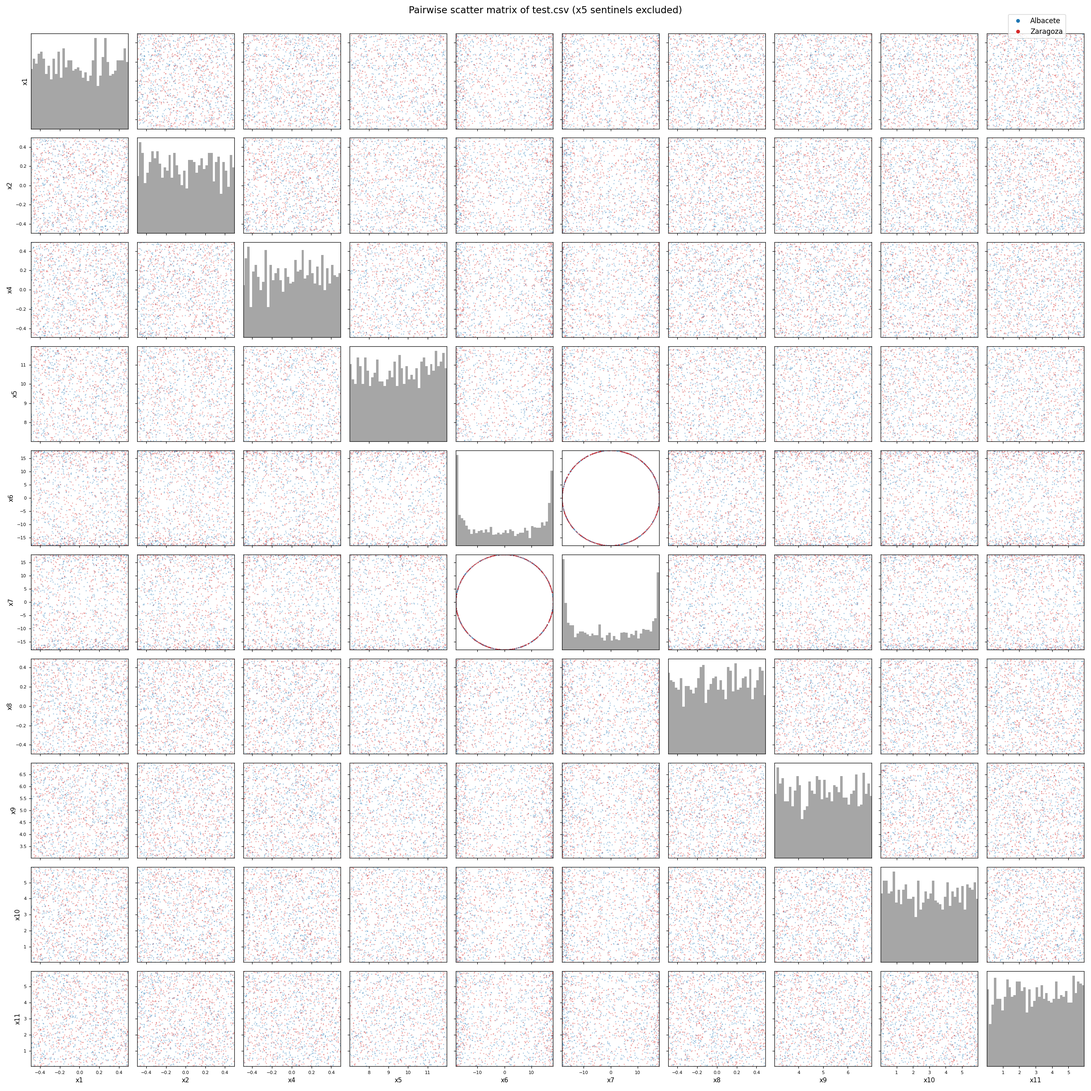
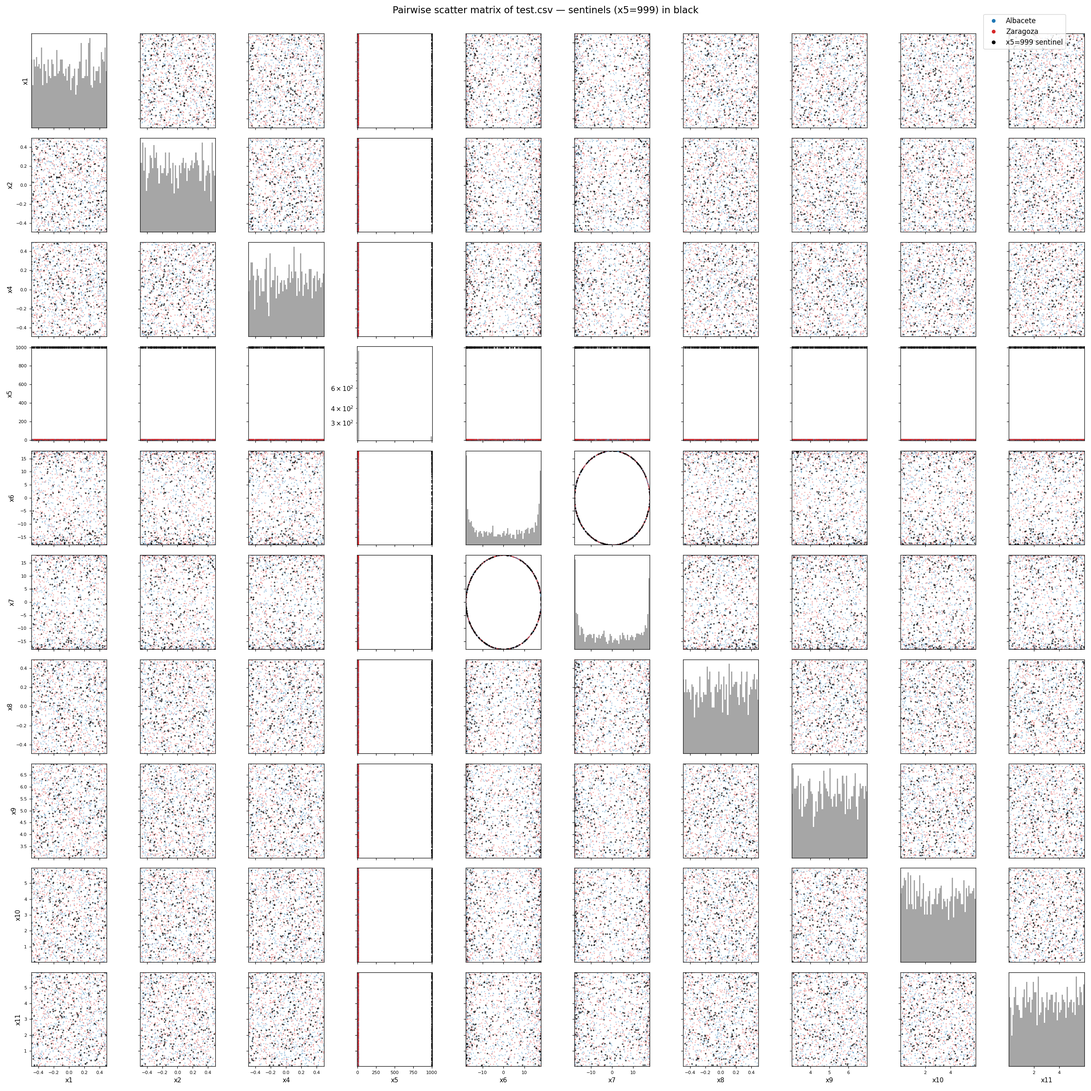
fix: show x5=999 sentinels in pairwise scatter matrix
Previous version silently filtered out the 228 sentinel rows (x5=999) whenever
x5 was on an axis, which made the x5 row/column look clean and hid real
structure. Now sentinels are plotted in black on top of the city-coloured
points, the x5 axis spans the full [7, 999] range, and the x5 histogram
uses a log y-scale so both the main cluster (~7-12) and the sentinel spike
at 999 are visible.

https://claude.ai/code/session_015XGC4Bc9amzqZxfFDxU38n

Changed region(s): [[0.0, 0.0, 1.0, 0.9939]]

diff --git a/scripts/plot_test_pairwise.py b/scripts/plot_test_pairwise.py
@@ -24,21 +24,22 @@ def main() -> None:
     features = ["x1", "x2", "x4", "x5", "x6", "x7", "x8", "x9", "x10", "x11"]
     n = len(features)
     print(f"test.csv: {df.shape}")
-    print(f"  plotting {n}x{n} pairwise matrix")
+    print(f"  plotting {n}x{n} pairwise matrix (sentinels visible)")
 
-    # Mark sentinels for x5 so the column doesn't get blown up by 999 values
     sent = (df["x5"] == SENTINEL).values
     city = df["City"].values
 
     colors = {"Albacete": "#1f77b4", "Zaragoza": "#d62728"}
 
-    # Compute per-column display range (for x5 drop sentinels)
+    # Axis ranges: keep full data range for x5 so the 999 sentinels are visible;
+    # other features use the tight percentile range.
     ranges = {}
     for f in features:
-        vals = df[f].values.copy()
+        vals = df[f].values
         if f == "x5":
-            vals = vals[~sent]
-        ranges[f] = (np.percentile(vals, 0.5), np.percentile(vals, 99.5))
+            ranges[f] = (vals.min() - 10, vals.max() + 10)
+        else:
+            ranges[f] = (np.percentile(vals, 0.5), np.percentile(vals, 99.5))
 
     fig, axes = plt.subplots(n, n, figsize=(24, 24))
 
@@ -47,28 +48,27 @@ def main() -> None:
             ax = axes[i, j]
 
             if i == j:
-                # Diagonal: histogram per city
+                # Diagonal: histogram including sentinels
                 vals = df[xf].values
-                if xf == "x5":
-                    vals = vals[~sent]
-                ax.hist(vals, bins=40, color="gray", alpha=0.7)
+                ax.hist(vals, bins=60, color="gray", alpha=0.7)
                 ax.set_xlim(ranges[xf])
                 ax.set_yticks([])
+                if xf == "x5":
+                    ax.set_yscale("log")
             else:
-                # Off-diagonal: scatter
+                # Off-diagonal: scatter, sentinel rows in red
                 x = df[xf].values
                 y = df[yf].values
-                # Exclude sentinel rows when x5 is on either axis
-                mask = np.ones(len(df), dtype=bool)
-                if xf == "x5" or yf == "x5":
-                    mask &= ~sent
+                # Non-sentinel rows by city
                 for c, col in colors.items():
-                    m = mask & (city == c)
+                    m = (~sent) & (city == c)
                     ax.scatter(x[m], y[m], s=3, alpha=0.4, color=col, linewidths=0)
+                # Sentinel rows over the top
+                ax.scatter(x[sent], y[sent], s=6, alpha=0.7, color="black",
+                           linewidths=0, label=None)
                 ax.set_xlim(ranges[xf])
                 ax.set_ylim(ranges[yf])
 
-            # Axis labels only on the outer edges
             if i == n - 1:
                 ax.set_xlabel(xf, fontsize=10)
             else:
@@ -79,20 +79,22 @@ def main() -> None:
                 ax.set_yticklabels([])
             ax.tick_params(labelsize=7)
 
-    # Legend in the top-right corner
     handles = [plt.Line2D([], [], marker="o", color="w",
                           markerfacecolor=col, markersize=7, label=c)
                for c, col in colors.items()]
+    handles.append(plt.Line2D([], [], marker="o", color="w",
+                              markerfacecolor="black", markersize=7,
+                              label="x5=999 sentinel"))
     fig.legend(handles=handles, loc="upper right",
                bbox_to_anchor=(0.98, 0.99), fontsize=11, frameon=True)
-    fig.suptitle("Pairwise scatter matrix of test.csv (x5 sentinels excluded)",
+    fig.suptitle("Pairwise scatter matrix of test.csv — sentinels (x5=999) in black",
                  fontsize=15, y=0.995)
     fig.tight_layout(rect=(0, 0, 1, 0.99))
     fig.savefig(PLOTS / "test_pairwise_scatter.png", dpi=110)
     plt.close(fig)
     print(f"wrote {PLOTS / 'test_pairwise_scatter.png'}")
 
-    # Correlation heatmap (useful complement)
+    # Correlation heatmap (same as before — excludes sentinels from Pearson)
     corr_df = df[features].replace(SENTINEL, np.nan).corr()
     fig, ax = plt.subplots(figsize=(9, 8))
     im = ax.imshow(corr_df.values, cmap="RdBu_r", vmin=-1, vmax=1)
